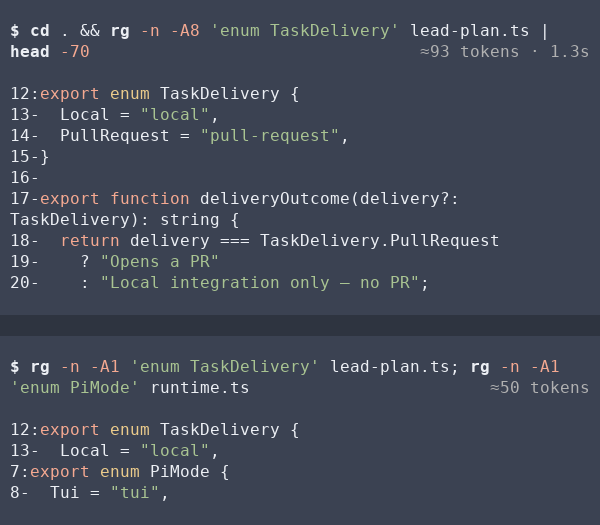
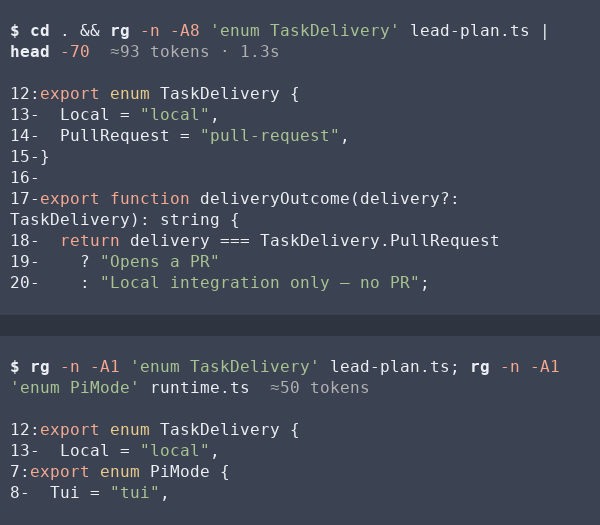
fix(rendering): keep shell inlays on the command line

diff --git a/shell-preview.ts b/shell-preview.ts
@@ -2,6 +2,7 @@ import type { Theme } from "@earendil-works/pi-coding-agent";
 import {
   type Component,
   Text,
+  stripTerminalSequences,
   visibleWidth,
   wrapTextWithAnsi,
 } from "@earendil-works/pi-tui";
@@ -30,35 +31,39 @@ export function shellElapsed(
 }
 
 export class ShellHeading extends Text {
-  inlay?: ((width: number) => string) | undefined;
+  inlay?: ((width: number, available: number) => string) | undefined;
 
   constructor() {
     super("", 0, 0);
   }
 
-  // Long commands can use the existing blank row before the output for the inlay.
-  hasRoom(width: number, inlay: string): boolean {
-    const last = super.render(width).at(-1)?.trimEnd() ?? "";
-    return visibleWidth(last) + 2 + visibleWidth(inlay) <= width;
-  }
-
   override render(width: number): readonly string[] {
     const rows = super.render(width);
-    const note = this.inlay?.(width) ?? "";
+    if (this.inlay === undefined) return rows;
+    // A multiline command can end with blank rows. Attach to its last visible text.
+    const end = rows.findLastIndex(
+      (row) => stripTerminalSequences(row).trim() !== "",
+    );
+    const tail = rows[end]?.trimEnd();
+    if (tail === undefined) return rows;
+    const tailWidth = visibleWidth(tail);
+    const gap = "  ";
+    // Leave at least half a row for a long command. Short tails need less.
+    const available =
+      width - Math.min(tailWidth, Math.ceil(width / 2)) - gap.length;
+    const note = this.inlay(width, available);
     if (note === "") return rows;
-    if (!this.hasRoom(width, note)) {
-      const extra = wrapTextWithAnsi(note, Math.max(1, width));
-      return [
-        ...rows,
-        ...extra.map(
-          (line) => " ".repeat(Math.max(0, width - visibleWidth(line))) + line,
-        ),
-      ];
-    }
-    const last = rows.at(-1)?.trimEnd() ?? "";
+
+    const commandWidth = width - gap.length - visibleWidth(note);
+    const wrapped = wrapTextWithAnsi(tail, commandWidth);
+    const last = wrapped.pop();
+    if (last === undefined || stripTerminalSequences(last).trim() === "")
+      return rows;
     return [
-      ...rows.slice(0, -1),
-      last + " ".repeat(width - visibleWidth(last) - visibleWidth(note)) + note,
+      ...rows.slice(0, end),
+      ...wrapped,
+      last + gap + note,
+      ...rows.slice(end + 1),
     ];
   }
 }
@@ -70,35 +75,47 @@ export function shellOutputPreview(
   {
     expanded,
     expandKey,
+    showExpandKey,
     tokens,
     elapsed,
   }: {
     expanded: boolean;
     expandKey: () => string;
+    showExpandKey: () => void;
     tokens: number | undefined;
     elapsed: string | undefined;
   },
 ): Component {
   const text = new Text(output, 0, 0);
-  const summary = [
-    tokens === undefined ? undefined : `≈${tokens.toString()} tokens`,
-    elapsed,
-  ]
-    .filter((part) => part !== undefined)
-    .join(" · ");
-
-  const inlay = (width: number) => {
-    const hidden = expanded ? 0 : text.render(width).length - previewLines;
-    if (hidden <= 0) return summary === "" ? "" : inlayText(theme, summary);
-    const count = `+${hidden.toString()} ${hidden === 1 ? "line" : "lines"}`;
-    const key = expandKey();
-    const hotkey = key === "" ? "" : ` (${key})`;
-    return inlayText(
-      theme,
-      count + hotkey + (summary === "" ? "" : ` · ${summary}`),
-    );
-  };
-  if (heading !== undefined) heading.inlay = inlay;
+  if (heading !== undefined) {
+    heading.inlay = (width, available) => {
+      const hidden = expanded ? 0 : text.render(width).length - previewLines;
+      const count =
+        hidden > 0
+          ? `+${hidden.toString()} ${hidden === 1 ? "line" : "lines"}`
+          : "";
+      const size = tokens === undefined ? "" : `≈${tokens.toString()} tokens`;
+      const fields: string[] = [];
+      for (const field of [count, size, elapsed]) {
+        if (
+          field !== undefined &&
+          field !== "" &&
+          visibleWidth([...fields, field].join(" · ")) <= available
+        )
+          fields.push(field);
+      }
+      if (fields.length === 0) return "";
+      if (fields[0] === count) {
+        const key = expandKey();
+        const hinted = [`${count} (${key})`, ...fields.slice(1)].join(" · ");
+        if (key !== "" && visibleWidth(hinted) <= available) {
+          showExpandKey();
+          return inlayText(theme, hinted);
+        }
+      }
+      return inlayText(theme, fields.join(" · "));
+    };
+  }
 
   return {
     invalidate() {
@@ -107,15 +124,7 @@ export function shellOutputPreview(
     render(width) {
       const rows = text.render(width);
       const visible = expanded ? rows : rows.slice(-previewLines);
-      const label = inlay(width);
-      if (heading === undefined && label !== "")
-        return [...wrapTextWithAnsi(label, Math.max(1, width)), ...visible];
-      if (
-        rows.length > 0 &&
-        (label === "" || heading?.hasRoom(width, label) === true)
-      )
-        return ["", ...visible];
-      return visible;
+      return visible.length === 0 ? [] : ["", ...visible];
     },
   };
 }

diff --git a/tests/codex-patch.test.ts b/tests/codex-patch.test.ts
@@ -375,6 +375,59 @@ await test("finished shell results put size, hidden rows and slow duration on th
   assert.doesNotMatch(empty, /\+1 line|last|Truncated|Took/u);
 });
 
+await test("shell metadata always shares a physical row with the command after a resize", async (t) => {
+  const { component } = await conversationFixture(t);
+  const argument = "Q".repeat(44) + "界";
+  const shell = component("shell_command", { command: `ls ${argument}\n` });
+  shell.setArgsComplete();
+  shell.updateResult({
+    content: [{ type: "text", text: "OUT1\nOUT2\nOUT3\nOUT4\nOUT5\nOUT6" }],
+    isError: false,
+    durationMs: 1250,
+  });
+  for (const expanded of [false, true]) {
+    shell.setExpanded(expanded);
+    for (const width of [160, 80, 55, 48, 32, 16, 12, 8, 6, 160]) {
+      const rendered = shell.render(width);
+      assert.ok(rendered.every((row) => visibleWidth(row) <= width));
+      const rows = rendered
+        .map((row) => stripTerminalSequences(row).trim())
+        .filter(Boolean);
+      const output = rows.findIndex((row) => row.startsWith("OUT"));
+      assert.ok(
+        output > 0,
+        `Missing shell command or output at ${String(width)} columns`,
+      );
+      const heading = rows.slice(0, output);
+      for (const row of heading)
+        assert.match(
+          row,
+          /\$|\bls\b|Q|界/u,
+          `Metadata took a row of its own at ${String(width)} columns: ${row}`,
+        );
+      const joined = heading.join("");
+      const commandEnd = joined.lastIndexOf("界") + 1;
+      assert.equal(
+        joined.slice(0, commandEnd).replaceAll(" ", ""),
+        `$ls${argument}`,
+      );
+      const metadata = joined.slice(commandEnd);
+      if (metadata !== "") assert.match(metadata, /^ {2}\S/u);
+      if (width === 6) assert.equal(metadata, "");
+      assert.deepEqual(
+        rows.slice(output),
+        expanded
+          ? ["OUT1", "OUT2", "OUT3", "OUT4", "OUT5", "OUT6"]
+          : ["OUT2", "OUT3", "OUT4", "OUT5", "OUT6"],
+      );
+      if (width === 160) {
+        assert.match(heading.join(""), /≈\d+ tokens/u);
+        assert.match(heading.join(""), /1\.3s/u);
+      }
+    }
+  }
+});
+
 // Compare the colored rows so this also covers syntax/token colors and gutter alignment.
 function codeRows(component: ToolExecutionComponent, width: number) {
   return component

diff --git a/search-renderer.ts b/search-renderer.ts
@@ -435,10 +435,13 @@ export function registerSearchRendering(pi: ExtensionAPI): void {
               return shellOutputPreview(source, theme, heading, {
                 expanded: options.expanded,
                 expandKey() {
-                  expandHintCall ??= context.toolCallId;
-                  return expandHintCall === context.toolCallId
+                  return expandHintCall === undefined ||
+                    expandHintCall === context.toolCallId
                     ? context.keyText("app.tools.expand")
                     : "";
+                },
+                showExpandKey() {
+                  expandHintCall ??= context.toolCallId;
                 },
                 tokens:
                   usage === undefined ? undefined : usage.call + usage.result,

diff --git a/README.md b/README.md
@@ -233,7 +233,7 @@ In an ordinary coding session, Studio selects the core tool names and arguments 
 
 The dialects in `model-tools/dialects/` translate model-facing arguments and results. Both `Bash` and `shell_command` call `runShell` in `model-tools/operations.ts`, so their timeouts, output, and permissions go through the same Pi shell executor after translation. Claude `Edit` uses exact text replacement. Codex `apply_patch` uses a batch operation that preflights its hunks and runs through the same shell permission hook. The patch tool is available when local read, edit, write, and shell access are all active. Custom executors, restricted workers, and snapshot reviewers retain their configured tools. Studio-specific operations such as Socrates planning and LSP navigation keep their own names across models.
 
-Shell commands appear with a `$` prompt. The first folded shell result shows the configured expand shortcut alongside its hidden-line count. Completed calls show `≈N tokens`, Pi’s estimate for the tool name, original arguments, and full result returned to the model. The provider reports billed usage per model response. Elapsed time appears when a command takes at least one second.
+Shell commands appear with a `$` prompt. The hidden-line count, estimated tokens, and elapsed time sit directly after the command on the same terminal row. Narrow terminals show the fields that fit. The first folded result with room for the configured expand shortcut shows it beside the count. Completed calls show `≈N tokens`, Pi’s estimate for the tool name, original arguments, and full result returned to the model. The provider reports billed usage per model response. Elapsed time appears when a command takes at least one second.
 
 File edits show the name the model called, including Claude `Edit` and Codex `apply_patch`. Both use the same renderer for numbered diffs, surrounding lines, and syntax highlighting. When available, the view adds the enclosing declaration, highlights individual token replacements, and displays diagnostics on the affected lines. A multi-file patch shows one `apply_patch` heading. Each file has a path, a brief reason for the change, and its own diff. A newly created file gets one `+` before its name and ordinary line numbers throughout. The transcript retains the diff and syntax context from execution, so later edits to the checkout do not change an earlier result.
 
